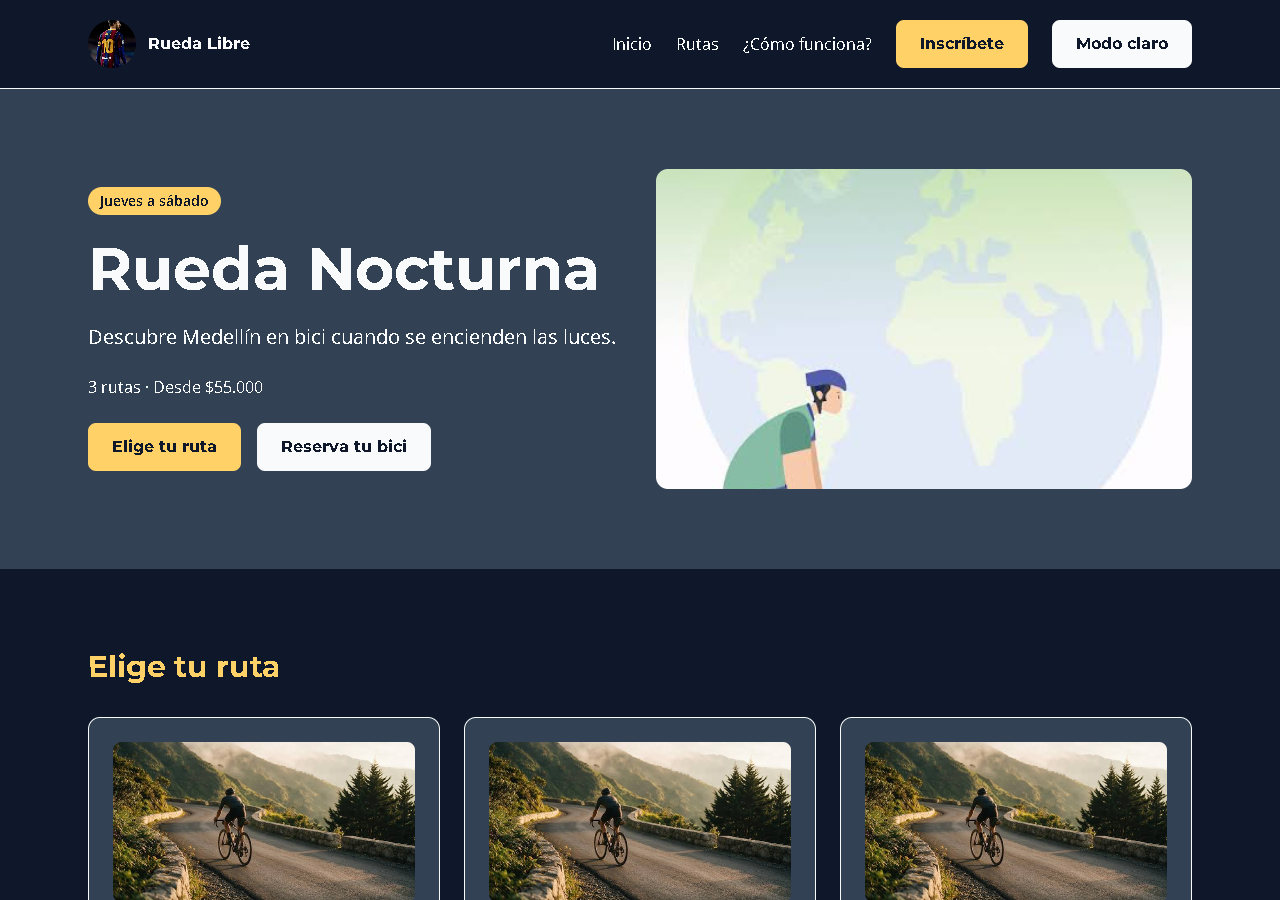
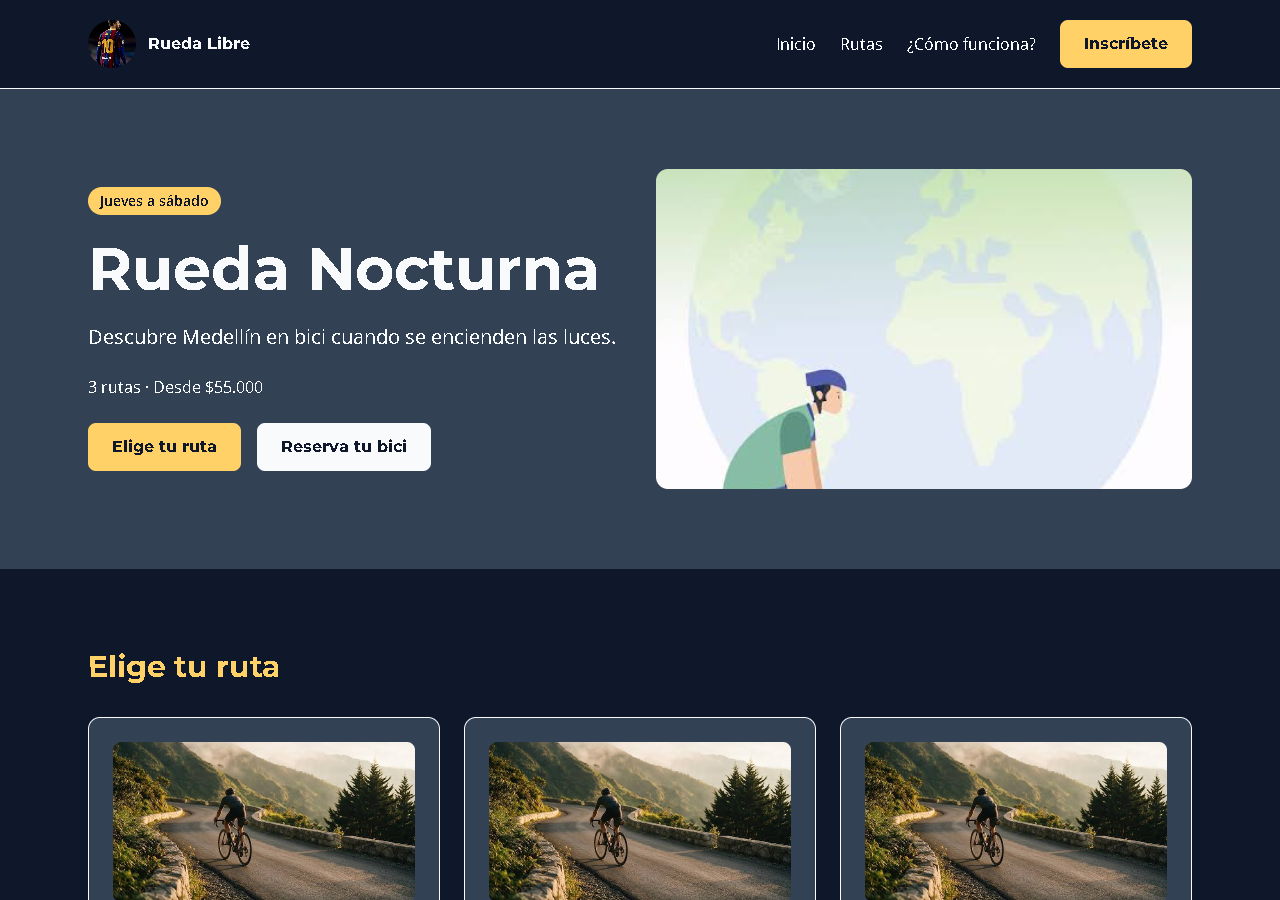
correccion de errores

Changed region(s): [[0.5938, 0.0, 0.9375, 0.0933], [0.5312, 0.0311, 0.5625, 0.0622]]

diff --git a/nocturna/src/output.css b/nocturna/src/output.css
@@ -1,2 +1,2 @@
 /*! tailwindcss v4.3.4 | MIT License | https://tailwindcss.com */
-@layer properties{@supports (((-webkit-hyphens:none)) and (not (margin-trim:block))) or ((-moz-orient:inline) and (not (color:rgb(from red r g b)))){*,:before,:after,::backdrop{--tw-space-y-reverse:0;--tw-border-style:solid;--tw-leading:initial;--tw-font-weight:initial;--tw-tracking:initial;--tw-outline-style:solid}}}@layer theme{:root,:host{--font-sans:-apple-system, BlinkMacSystemFont, "Segoe UI", Roboto, "Helvetica Neue", "Noto Sans", Arial, sans-serif, "Apple Color Emoji", "Segoe UI Emoji", "Segoe UI Symbol", "Noto Color Emoji";--font-mono:ui-monospace, SFMono-Regular, Menlo, Monaco, Consolas, "Liberation Mono", "Courier New", monospace;--color-amber-300:oklch(87.9% .169 91.605);--color-slate-300:oklch(86.9% .022 252.894);--color-slate-950:oklch(12.9% .042 264.695);--color-white:#fff;--spacing:.25rem;--container-xl:36rem;--container-3xl:48rem;--container-6xl:72rem;--text-sm:.875rem;--text-sm--line-height:calc(1.25 / .875);--text-base:1rem;--text-base--line-height:calc(1.5 / 1);--text-lg:1.125rem;--text-lg--line-height:calc(1.75 / 1.125);--text-xl:1.25rem;--text-xl--line-height:calc(1.75 / 1.25);--text-2xl:1.5rem;--text-2xl--line-height:calc(2 / 1.5);--text-3xl:1.875rem;--text-3xl--line-height:calc(2.25 / 1.875);--text-4xl:2.25rem;--text-4xl--line-height:calc(2.5 / 2.25);--text-5xl:3rem;--text-5xl--line-height:1;--text-6xl:3.75rem;--text-6xl--line-height:1;--font-weight-normal:400;--font-weight-semibold:600;--font-weight-bold:700;--tracking-wide:.025em;--leading-tight:1.25;--leading-relaxed:1.625;--radius-lg:.5rem;--radius-xl:.75rem;--default-font-family:var(--font-sans);--default-mono-font-family:var(--font-mono);--color-verde-ruta:#0284c7;--color-azul-noche:#0f172a;--color-gris-asfalto:#334155;--color-crema:#f8fafc;--color-amarillo-farol:#ffd166;--font-titulo:"Montserrat", sans-serif;--font-cuerpo:"Open Sans", sans-serif}}@layer base{*,:after,:before,::backdrop{box-sizing:border-box;border:0 solid;margin:0;padding:0}::file-selector-button{box-sizing:border-box;border:0 solid;margin:0;padding:0}html,:host{-webkit-text-size-adjust:100%;tab-size:4;line-height:1.5;font-family:var(--default-font-family,-apple-system, BlinkMacSystemFont, "Segoe UI", Roboto, "Helvetica Neue", "Noto Sans", Arial, sans-serif, "Apple Color Emoji", "Segoe UI Emoji", "Segoe UI Symbol", "Noto Color Emoji");font-feature-settings:var(--default-font-feature-settings,normal);font-variation-settings:var(--default-font-variation-settings,normal);-webkit-tap-highlight-color:transparent}hr{height:0;color:inherit;border-top-width:1px}abbr:where([title]){-webkit-text-decoration:underline dotted;text-decoration:underline dotted}h1,h2,h3,h4,h5,h6{font-size:inherit;font-weight:inherit}a{color:inherit;-webkit-text-decoration:inherit;-webkit-text-decoration:inherit;-webkit-text-decoration:inherit;text-decoration:inherit}b,strong{font-weight:bolder}code,kbd,samp,pre{font-family:var(--default-mono-font-family,ui-monospace, SFMono-Regular, Menlo, Monaco, Consolas, "Liberation Mono", "Courier New", monospace);font-feature-settings:var(--default-mono-font-feature-settings,normal);font-variation-settings:var(--default-mono-font-variation-settings,normal);font-size:1em}small{font-size:80%}sub,sup{vertical-align:baseline;font-size:75%;line-height:0;position:relative}sub{bottom:-.25em}sup{top:-.5em}table{text-indent:0;border-color:inherit;border-collapse:collapse}:-moz-focusring:where(:not(iframe)){outline:auto}progress{vertical-align:baseline}summary{display:list-item}ol,ul,menu{list-style:none}img,svg,video,canvas,audio,iframe,embed,object{vertical-align:middle;display:block}img,video{max-width:100%;height:auto}button,input,select,optgroup,textarea{font:inherit;font-feature-settings:inherit;font-variation-settings:inherit;letter-spacing:inherit;color:inherit;opacity:1;background-color:#0000;border-radius:0}::file-selector-button{font:inherit;font-feature-settings:inherit;font-variation-settings:inherit;letter-spacing:inherit;color:inherit;opacity:1;background-color:#0000;border-radius:0}:where(select:is([multiple],[size])) optgroup{font-weight:bolder}:where(select:is([multiple],[size])) optgroup option{padding-inline-start:20px}::file-selector-button{margin-inline-end:4px}::placeholder{opacity:1}@supports (not ((-webkit-appearance:-apple-pay-button))) or (contain-intrinsic-size:1px){::placeholder{color:currentColor}@supports (color:color-mix(in lab, red, red)){::placeholder{color:color-mix(in oklab, currentcolor 50%, transparent)}}}textarea{resize:vertical}::-webkit-search-decoration{-webkit-appearance:none}::-webkit-date-and-time-value{min-height:1lh;text-align:inherit}::-webkit-datetime-edit{display:inline-flex}::-webkit-datetime-edit-fields-wrapper{padding:0}::-webkit-datetime-edit{padding-block:0}::-webkit-datetime-edit-year-field{padding-block:0}::-webkit-datetime-edit-month-field{padding-block:0}::-webkit-datetime-edit-day-field{padding-block:0}::-webkit-datetime-edit-hour-field{padding-block:0}::-webkit-datetime-edit-minute-field{padding-block:0}::-webkit-datetime-edit-second-field{padding-block:0}::-webkit-datetime-edit-millisecond-field{padding-block:0}::-webkit-datetime-edit-meridiem-field{padding-block:0}::-webkit-calendar-picker-indicator{line-height:1}:-moz-ui-invalid{box-shadow:none}button,input:where([type=button],[type=reset],[type=submit]){appearance:button}::file-selector-button{appearance:button}::-webkit-inner-spin-button{height:auto}::-webkit-outer-spin-button{height:auto}[hidden]:where(:not([hidden=until-found])){display:none!important}:root{color-scheme:light}:root.dark{color-scheme:dark}}@layer components{.btn-principal{border-radius:var(--radius-lg);background-color:var(--color-amarillo-farol);padding-inline:calc(var(--spacing) * 6);padding-block:calc(var(--spacing) * 3);font-family:var(--font-titulo);--tw-font-weight:var(--font-weight-bold);font-weight:var(--font-weight-bold);color:var(--color-azul-noche);justify-content:center;align-items:center;display:inline-flex}@media (hover:hover){.btn-principal:hover{background-color:var(--color-white)}}.btn-principal:focus-visible{outline-style:var(--tw-outline-style);outline-offset:4px;outline-width:2px;outline-color:var(--color-verde-ruta)}.btn-principal:where(.dark,.dark *):focus-visible{outline-color:var(--color-amarillo-farol)}.btn-secundario{border-radius:var(--radius-lg);background-color:var(--color-azul-noche);padding-inline:calc(var(--spacing) * 6);padding-block:calc(var(--spacing) * 3);font-family:var(--font-titulo);--tw-font-weight:var(--font-weight-bold);font-weight:var(--font-weight-bold);color:var(--color-white);justify-content:center;align-items:center;display:inline-flex}@media (hover:hover){.btn-secundario:hover{background-color:var(--color-gris-asfalto)}}.btn-secundario:focus-visible{outline-style:var(--tw-outline-style);outline-offset:4px;outline-width:2px;outline-color:var(--color-verde-ruta)}.btn-secundario:where(.dark,.dark *){background-color:var(--color-crema);color:var(--color-azul-noche)}@media (hover:hover){.btn-secundario:where(.dark,.dark *):hover{background-color:var(--color-amarillo-farol)}}.btn-secundario:where(.dark,.dark *):focus-visible{outline-color:var(--color-amarillo-farol)}}@layer utilities{.absolute{position:absolute}.relative{position:relative}.-top-4{top:calc(var(--spacing) * -4)}.left-6{left:calc(var(--spacing) * 6)}.mx-auto{margin-inline:auto}.block{display:block}.flex{display:flex}.grid{display:grid}.hidden{display:none}.inline-block{display:inline-block}.inline-flex{display:inline-flex}.h-5{height:calc(var(--spacing) * 5)}.h-10{height:calc(var(--spacing) * 10)}.h-12{height:calc(var(--spacing) * 12)}.h-40{height:calc(var(--spacing) * 40)}.h-64{height:calc(var(--spacing) * 64)}.h-full{height:100%}.w-5{width:calc(var(--spacing) * 5)}.w-10{width:calc(var(--spacing) * 10)}.w-12{width:calc(var(--spacing) * 12)}.w-full{width:100%}.max-w-3xl{max-width:var(--container-3xl)}.max-w-6xl{max-width:var(--container-6xl)}.max-w-xl{max-width:var(--container-xl)}.shrink-0{flex-shrink:0}.grow{flex-grow:1}.grid-cols-1{grid-template-columns:repeat(1,minmax(0,1fr))}.flex-col{flex-direction:column}.flex-wrap{flex-wrap:wrap}.items-center{align-items:center}.justify-between{justify-content:space-between}.justify-center{justify-content:center}.gap-2{gap:calc(var(--spacing) * 2)}.gap-3{gap:calc(var(--spacing) * 3)}.gap-4{gap:calc(var(--spacing) * 4)}.gap-6{gap:calc(var(--spacing) * 6)}.gap-8{gap:calc(var(--spacing) * 8)}:where(.space-y-2>:not(:last-child)){--tw-space-y-reverse:0;margin-block-start:calc(calc(var(--spacing) * 2) * var(--tw-space-y-reverse));margin-block-end:calc(calc(var(--spacing) * 2) * calc(1 - var(--tw-space-y-reverse)))}:where(.space-y-3>:not(:last-child)){--tw-space-y-reverse:0;margin-block-start:calc(calc(var(--spacing) * 3) * var(--tw-space-y-reverse));margin-block-end:calc(calc(var(--spacing) * 3) * calc(1 - var(--tw-space-y-reverse)))}:where(.space-y-4>:not(:last-child)){--tw-space-y-reverse:0;margin-block-start:calc(calc(var(--spacing) * 4) * var(--tw-space-y-reverse));margin-block-end:calc(calc(var(--spacing) * 4) * calc(1 - var(--tw-space-y-reverse)))}:where(.space-y-6>:not(:last-child)){--tw-space-y-reverse:0;margin-block-start:calc(calc(var(--spacing) * 6) * var(--tw-space-y-reverse));margin-block-end:calc(calc(var(--spacing) * 6) * calc(1 - var(--tw-space-y-reverse)))}:where(.space-y-8>:not(:last-child)){--tw-space-y-reverse:0;margin-block-start:calc(calc(var(--spacing) * 8) * var(--tw-space-y-reverse));margin-block-end:calc(calc(var(--spacing) * 8) * calc(1 - var(--tw-space-y-reverse)))}.self-start{align-self:flex-start}.rounded-full{border-radius:2147483647px}.rounded-lg{border-radius:var(--radius-lg)}.rounded-xl{border-radius:var(--radius-xl)}.border{border-style:var(--tw-border-style);border-width:1px}.border-t{border-top-style:var(--tw-border-style);border-top-width:1px}.border-t-4{border-top-style:var(--tw-border-style);border-top-width:4px}.border-b{border-bottom-style:var(--tw-border-style);border-bottom-width:1px}.border-azul-noche{border-color:var(--color-azul-noche)}.border-gris-asfalto{border-color:var(--color-gris-asfalto)}.bg-amarillo-farol{background-color:var(--color-amarillo-farol)}.bg-amber-300{background-color:var(--color-amber-300)}.bg-azul-noche{background-color:var(--color-azul-noche)}.bg-crema{background-color:var(--color-crema)}.bg-slate-950{background-color:var(--color-slate-950)}.bg-white{background-color:var(--color-white)}.object-cover{object-fit:cover}.p-6{padding:calc(var(--spacing) * 6)}.px-2{padding-inline:calc(var(--spacing) * 2)}.px-3{padding-inline:calc(var(--spacing) * 3)}.px-4{padding-inline:calc(var(--spacing) * 4)}.px-6{padding-inline:calc(var(--spacing) * 6)}.py-1{padding-block:var(--spacing)}.py-3{padding-block:calc(var(--spacing) * 3)}.py-5{padding-block:calc(var(--spacing) * 5)}.py-8{padding-block:calc(var(--spacing) * 8)}.py-12{padding-block:calc(var(--spacing) * 12)}.font-cuerpo{font-family:var(--font-cuerpo)}.font-sans{font-family:var(--font-sans)}.font-titulo{font-family:var(--font-titulo)}.text-2xl{font-size:var(--text-2xl);line-height:var(--tw-leading,var(--text-2xl--line-height))}.text-3xl{font-size:var(--text-3xl);line-height:var(--tw-leading,var(--text-3xl--line-height))}.text-4xl{font-size:var(--text-4xl);line-height:var(--tw-leading,var(--text-4xl--line-height))}.text-5xl{font-size:var(--text-5xl);line-height:var(--tw-leading,var(--text-5xl--line-height))}.text-base{font-size:var(--text-base);line-height:var(--tw-leading,var(--text-base--line-height))}.text-lg{font-size:var(--text-lg);line-height:var(--tw-leading,var(--text-lg--line-height))}.text-sm{font-size:var(--text-sm);line-height:var(--tw-leading,var(--text-sm--line-height))}.text-xl{font-size:var(--text-xl);line-height:var(--tw-leading,var(--text-xl--line-height))}.leading-relaxed{--tw-leading:var(--leading-relaxed);line-height:var(--leading-relaxed)}.leading-tight{--tw-leading:var(--leading-tight);line-height:var(--leading-tight)}.font-bold{--tw-font-weight:var(--font-weight-bold);font-weight:var(--font-weight-bold)}.font-normal{--tw-font-weight:var(--font-weight-normal);font-weight:var(--font-weight-normal)}.font-semibold{--tw-font-weight:var(--font-weight-semibold);font-weight:var(--font-weight-semibold)}.tracking-wide{--tw-tracking:var(--tracking-wide);letter-spacing:var(--tracking-wide)}.break-all{word-break:break-all}.text-amber-300{color:var(--color-amber-300)}.text-azul-noche{color:var(--color-azul-noche)}.text-crema{color:var(--color-crema)}.text-gris-asfalto{color:var(--color-gris-asfalto)}.text-slate-300{color:var(--color-slate-300)}.text-slate-950{color:var(--color-slate-950)}.text-white{color:var(--color-white)}.uppercase{text-transform:uppercase}.underline{text-decoration-line:underline}.accent-azul-noche{accent-color:var(--color-azul-noche)}@media (hover:hover){.hover\:underline:hover{text-decoration-line:underline}}.focus\:outline-2:focus{outline-style:var(--tw-outline-style);outline-width:2px}.focus\:outline-offset-2:focus{outline-offset:2px}.focus\:outline-verde-ruta:focus{outline-color:var(--color-verde-ruta)}@media (min-width:40rem){.sm\:grid-cols-2{grid-template-columns:repeat(2,minmax(0,1fr))}}@media (min-width:48rem){.md\:flex{display:flex}.md\:grid-cols-2{grid-template-columns:repeat(2,minmax(0,1fr))}.md\:flex-row{flex-direction:row}}@media (min-width:64rem){.lg\:h-80{height:calc(var(--spacing) * 80)}.lg\:grid-cols-3{grid-template-columns:repeat(3,minmax(0,1fr))}.lg\:grid-cols-4{grid-template-columns:repeat(4,minmax(0,1fr))}.lg\:gap-6{gap:calc(var(--spacing) * 6)}.lg\:py-20{padding-block:calc(var(--spacing) * 20)}.lg\:text-3xl{font-size:var(--text-3xl);line-height:var(--tw-leading,var(--text-3xl--line-height))}.lg\:text-6xl{font-size:var(--text-6xl);line-height:var(--tw-leading,var(--text-6xl--line-height))}.lg\:text-xl{font-size:var(--text-xl);line-height:var(--tw-leading,var(--text-xl--line-height))}}.dark\:border-amarillo-farol:where(.dark,.dark *){border-color:var(--color-amarillo-farol)}.dark\:border-crema:where(.dark,.dark *){border-color:var(--color-crema)}.dark\:bg-amarillo-farol:where(.dark,.dark *){background-color:var(--color-amarillo-farol)}.dark\:bg-azul-noche:where(.dark,.dark *){background-color:var(--color-azul-noche)}.dark\:bg-gris-asfalto:where(.dark,.dark *){background-color:var(--color-gris-asfalto)}.dark\:text-amarillo-farol:where(.dark,.dark *){color:var(--color-amarillo-farol)}.dark\:text-azul-noche:where(.dark,.dark *){color:var(--color-azul-noche)}.dark\:text-crema:where(.dark,.dark *){color:var(--color-crema)}.dark\:accent-amarillo-farol:where(.dark,.dark *){accent-color:var(--color-amarillo-farol)}.dark\:focus\:outline-amarillo-farol:where(.dark,.dark *):focus{outline-color:var(--color-amarillo-farol)}}@property --tw-space-y-reverse{syntax:"*";inherits:false;initial-value:0}@property --tw-border-style{syntax:"*";inherits:false;initial-value:solid}@property --tw-leading{syntax:"*";inherits:false}@property --tw-font-weight{syntax:"*";inherits:false}@property --tw-tracking{syntax:"*";inherits:false}@property --tw-outline-style{syntax:"*";inherits:false;initial-value:solid}
+@layer properties{@supports (((-webkit-hyphens:none)) and (not (margin-trim:block))) or ((-moz-orient:inline) and (not (color:rgb(from red r g b)))){*,:before,:after,::backdrop{--tw-space-y-reverse:0;--tw-border-style:solid;--tw-leading:initial;--tw-font-weight:initial;--tw-tracking:initial;--tw-outline-style:solid}}}@layer theme{:root,:host{--font-sans:-apple-system, BlinkMacSystemFont, "Segoe UI", Roboto, "Helvetica Neue", "Noto Sans", Arial, sans-serif, "Apple Color Emoji", "Segoe UI Emoji", "Segoe UI Symbol", "Noto Color Emoji";--font-mono:ui-monospace, SFMono-Regular, Menlo, Monaco, Consolas, "Liberation Mono", "Courier New", monospace;--color-amber-300:oklch(87.9% .169 91.605);--color-slate-300:oklch(86.9% .022 252.894);--color-slate-950:oklch(12.9% .042 264.695);--color-white:#fff;--spacing:.25rem;--container-xl:36rem;--container-3xl:48rem;--container-6xl:72rem;--text-sm:.875rem;--text-sm--line-height:calc(1.25 / .875);--text-base:1rem;--text-base--line-height:calc(1.5 / 1);--text-lg:1.125rem;--text-lg--line-height:calc(1.75 / 1.125);--text-xl:1.25rem;--text-xl--line-height:calc(1.75 / 1.25);--text-2xl:1.5rem;--text-2xl--line-height:calc(2 / 1.5);--text-3xl:1.875rem;--text-3xl--line-height:calc(2.25 / 1.875);--text-4xl:2.25rem;--text-4xl--line-height:calc(2.5 / 2.25);--text-5xl:3rem;--text-5xl--line-height:1;--text-6xl:3.75rem;--text-6xl--line-height:1;--font-weight-normal:400;--font-weight-semibold:600;--font-weight-bold:700;--tracking-wide:.025em;--leading-tight:1.25;--leading-relaxed:1.625;--radius-lg:.5rem;--radius-xl:.75rem;--default-font-family:var(--font-sans);--default-mono-font-family:var(--font-mono);--color-verde-ruta:#0284c7;--color-azul-noche:#0f172a;--color-gris-asfalto:#334155;--color-crema:#f8fafc;--color-amarillo-farol:#ffd166;--font-titulo:"Montserrat", sans-serif;--font-cuerpo:"Open Sans", sans-serif}}@layer base{*,:after,:before,::backdrop{box-sizing:border-box;border:0 solid;margin:0;padding:0}::file-selector-button{box-sizing:border-box;border:0 solid;margin:0;padding:0}html,:host{-webkit-text-size-adjust:100%;tab-size:4;line-height:1.5;font-family:var(--default-font-family,-apple-system, BlinkMacSystemFont, "Segoe UI", Roboto, "Helvetica Neue", "Noto Sans", Arial, sans-serif, "Apple Color Emoji", "Segoe UI Emoji", "Segoe UI Symbol", "Noto Color Emoji");font-feature-settings:var(--default-font-feature-settings,normal);font-variation-settings:var(--default-font-variation-settings,normal);-webkit-tap-highlight-color:transparent}hr{height:0;color:inherit;border-top-width:1px}abbr:where([title]){-webkit-text-decoration:underline dotted;text-decoration:underline dotted}h1,h2,h3,h4,h5,h6{font-size:inherit;font-weight:inherit}a{color:inherit;-webkit-text-decoration:inherit;-webkit-text-decoration:inherit;-webkit-text-decoration:inherit;text-decoration:inherit}b,strong{font-weight:bolder}code,kbd,samp,pre{font-family:var(--default-mono-font-family,ui-monospace, SFMono-Regular, Menlo, Monaco, Consolas, "Liberation Mono", "Courier New", monospace);font-feature-settings:var(--default-mono-font-feature-settings,normal);font-variation-settings:var(--default-mono-font-variation-settings,normal);font-size:1em}small{font-size:80%}sub,sup{vertical-align:baseline;font-size:75%;line-height:0;position:relative}sub{bottom:-.25em}sup{top:-.5em}table{text-indent:0;border-color:inherit;border-collapse:collapse}:-moz-focusring:where(:not(iframe)){outline:auto}progress{vertical-align:baseline}summary{display:list-item}ol,ul,menu{list-style:none}img,svg,video,canvas,audio,iframe,embed,object{vertical-align:middle;display:block}img,video{max-width:100%;height:auto}button,input,select,optgroup,textarea{font:inherit;font-feature-settings:inherit;font-variation-settings:inherit;letter-spacing:inherit;color:inherit;opacity:1;background-color:#0000;border-radius:0}::file-selector-button{font:inherit;font-feature-settings:inherit;font-variation-settings:inherit;letter-spacing:inherit;color:inherit;opacity:1;background-color:#0000;border-radius:0}:where(select:is([multiple],[size])) optgroup{font-weight:bolder}:where(select:is([multiple],[size])) optgroup option{padding-inline-start:20px}::file-selector-button{margin-inline-end:4px}::placeholder{opacity:1}@supports (not ((-webkit-appearance:-apple-pay-button))) or (contain-intrinsic-size:1px){::placeholder{color:currentColor}@supports (color:color-mix(in lab, red, red)){::placeholder{color:color-mix(in oklab, currentcolor 50%, transparent)}}}textarea{resize:vertical}::-webkit-search-decoration{-webkit-appearance:none}::-webkit-date-and-time-value{min-height:1lh;text-align:inherit}::-webkit-datetime-edit{display:inline-flex}::-webkit-datetime-edit-fields-wrapper{padding:0}::-webkit-datetime-edit{padding-block:0}::-webkit-datetime-edit-year-field{padding-block:0}::-webkit-datetime-edit-month-field{padding-block:0}::-webkit-datetime-edit-day-field{padding-block:0}::-webkit-datetime-edit-hour-field{padding-block:0}::-webkit-datetime-edit-minute-field{padding-block:0}::-webkit-datetime-edit-second-field{padding-block:0}::-webkit-datetime-edit-millisecond-field{padding-block:0}::-webkit-datetime-edit-meridiem-field{padding-block:0}::-webkit-calendar-picker-indicator{line-height:1}:-moz-ui-invalid{box-shadow:none}button,input:where([type=button],[type=reset],[type=submit]){appearance:button}::file-selector-button{appearance:button}::-webkit-inner-spin-button{height:auto}::-webkit-outer-spin-button{height:auto}[hidden]:where(:not([hidden=until-found])){display:none!important}:root{color-scheme:light dark}}@layer components{.btn-principal{border-radius:var(--radius-lg);background-color:var(--color-amarillo-farol);padding-inline:calc(var(--spacing) * 6);padding-block:calc(var(--spacing) * 3);font-family:var(--font-titulo);--tw-font-weight:var(--font-weight-bold);font-weight:var(--font-weight-bold);color:var(--color-azul-noche);justify-content:center;align-items:center;display:inline-flex}@media (hover:hover){.btn-principal:hover{background-color:var(--color-white)}}.btn-principal:focus-visible{outline-style:var(--tw-outline-style);outline-offset:4px;outline-width:2px;outline-color:var(--color-verde-ruta)}@media (prefers-color-scheme:dark){.btn-principal:focus-visible{outline-color:var(--color-amarillo-farol)}}.btn-secundario{border-radius:var(--radius-lg);background-color:var(--color-azul-noche);padding-inline:calc(var(--spacing) * 6);padding-block:calc(var(--spacing) * 3);font-family:var(--font-titulo);--tw-font-weight:var(--font-weight-bold);font-weight:var(--font-weight-bold);color:var(--color-white);justify-content:center;align-items:center;display:inline-flex}@media (hover:hover){.btn-secundario:hover{background-color:var(--color-gris-asfalto)}}.btn-secundario:focus-visible{outline-style:var(--tw-outline-style);outline-offset:4px;outline-width:2px;outline-color:var(--color-verde-ruta)}@media (prefers-color-scheme:dark){.btn-secundario{background-color:var(--color-crema);color:var(--color-azul-noche)}@media (hover:hover){.btn-secundario:hover{background-color:var(--color-amarillo-farol)}}.btn-secundario:focus-visible{outline-color:var(--color-amarillo-farol)}}}@layer utilities{.absolute{position:absolute}.relative{position:relative}.-top-4{top:calc(var(--spacing) * -4)}.left-6{left:calc(var(--spacing) * 6)}.mx-auto{margin-inline:auto}.block{display:block}.flex{display:flex}.grid{display:grid}.hidden{display:none}.inline-block{display:inline-block}.inline-flex{display:inline-flex}.h-5{height:calc(var(--spacing) * 5)}.h-10{height:calc(var(--spacing) * 10)}.h-12{height:calc(var(--spacing) * 12)}.h-40{height:calc(var(--spacing) * 40)}.h-64{height:calc(var(--spacing) * 64)}.h-full{height:100%}.w-5{width:calc(var(--spacing) * 5)}.w-10{width:calc(var(--spacing) * 10)}.w-12{width:calc(var(--spacing) * 12)}.w-full{width:100%}.max-w-3xl{max-width:var(--container-3xl)}.max-w-6xl{max-width:var(--container-6xl)}.max-w-xl{max-width:var(--container-xl)}.shrink-0{flex-shrink:0}.grow{flex-grow:1}.grid-cols-1{grid-template-columns:repeat(1,minmax(0,1fr))}.flex-col{flex-direction:column}.flex-wrap{flex-wrap:wrap}.items-center{align-items:center}.justify-between{justify-content:space-between}.justify-center{justify-content:center}.gap-2{gap:calc(var(--spacing) * 2)}.gap-3{gap:calc(var(--spacing) * 3)}.gap-4{gap:calc(var(--spacing) * 4)}.gap-6{gap:calc(var(--spacing) * 6)}.gap-8{gap:calc(var(--spacing) * 8)}:where(.space-y-2>:not(:last-child)){--tw-space-y-reverse:0;margin-block-start:calc(calc(var(--spacing) * 2) * var(--tw-space-y-reverse));margin-block-end:calc(calc(var(--spacing) * 2) * calc(1 - var(--tw-space-y-reverse)))}:where(.space-y-3>:not(:last-child)){--tw-space-y-reverse:0;margin-block-start:calc(calc(var(--spacing) * 3) * var(--tw-space-y-reverse));margin-block-end:calc(calc(var(--spacing) * 3) * calc(1 - var(--tw-space-y-reverse)))}:where(.space-y-4>:not(:last-child)){--tw-space-y-reverse:0;margin-block-start:calc(calc(var(--spacing) * 4) * var(--tw-space-y-reverse));margin-block-end:calc(calc(var(--spacing) * 4) * calc(1 - var(--tw-space-y-reverse)))}:where(.space-y-6>:not(:last-child)){--tw-space-y-reverse:0;margin-block-start:calc(calc(var(--spacing) * 6) * var(--tw-space-y-reverse));margin-block-end:calc(calc(var(--spacing) * 6) * calc(1 - var(--tw-space-y-reverse)))}:where(.space-y-8>:not(:last-child)){--tw-space-y-reverse:0;margin-block-start:calc(calc(var(--spacing) * 8) * var(--tw-space-y-reverse));margin-block-end:calc(calc(var(--spacing) * 8) * calc(1 - var(--tw-space-y-reverse)))}.self-start{align-self:flex-start}.rounded-full{border-radius:2147483647px}.rounded-lg{border-radius:var(--radius-lg)}.rounded-xl{border-radius:var(--radius-xl)}.border{border-style:var(--tw-border-style);border-width:1px}.border-t{border-top-style:var(--tw-border-style);border-top-width:1px}.border-t-4{border-top-style:var(--tw-border-style);border-top-width:4px}.border-b{border-bottom-style:var(--tw-border-style);border-bottom-width:1px}.border-azul-noche{border-color:var(--color-azul-noche)}.border-gris-asfalto{border-color:var(--color-gris-asfalto)}.bg-amarillo-farol{background-color:var(--color-amarillo-farol)}.bg-amber-300{background-color:var(--color-amber-300)}.bg-azul-noche{background-color:var(--color-azul-noche)}.bg-crema{background-color:var(--color-crema)}.bg-slate-950{background-color:var(--color-slate-950)}.bg-white{background-color:var(--color-white)}.object-cover{object-fit:cover}.p-6{padding:calc(var(--spacing) * 6)}.px-2{padding-inline:calc(var(--spacing) * 2)}.px-3{padding-inline:calc(var(--spacing) * 3)}.px-4{padding-inline:calc(var(--spacing) * 4)}.px-6{padding-inline:calc(var(--spacing) * 6)}.py-1{padding-block:var(--spacing)}.py-3{padding-block:calc(var(--spacing) * 3)}.py-5{padding-block:calc(var(--spacing) * 5)}.py-8{padding-block:calc(var(--spacing) * 8)}.py-12{padding-block:calc(var(--spacing) * 12)}.font-cuerpo{font-family:var(--font-cuerpo)}.font-sans{font-family:var(--font-sans)}.font-titulo{font-family:var(--font-titulo)}.text-2xl{font-size:var(--text-2xl);line-height:var(--tw-leading,var(--text-2xl--line-height))}.text-3xl{font-size:var(--text-3xl);line-height:var(--tw-leading,var(--text-3xl--line-height))}.text-4xl{font-size:var(--text-4xl);line-height:var(--tw-leading,var(--text-4xl--line-height))}.text-5xl{font-size:var(--text-5xl);line-height:var(--tw-leading,var(--text-5xl--line-height))}.text-base{font-size:var(--text-base);line-height:var(--tw-leading,var(--text-base--line-height))}.text-lg{font-size:var(--text-lg);line-height:var(--tw-leading,var(--text-lg--line-height))}.text-sm{font-size:var(--text-sm);line-height:var(--tw-leading,var(--text-sm--line-height))}.text-xl{font-size:var(--text-xl);line-height:var(--tw-leading,var(--text-xl--line-height))}.leading-relaxed{--tw-leading:var(--leading-relaxed);line-height:var(--leading-relaxed)}.leading-tight{--tw-leading:var(--leading-tight);line-height:var(--leading-tight)}.font-bold{--tw-font-weight:var(--font-weight-bold);font-weight:var(--font-weight-bold)}.font-normal{--tw-font-weight:var(--font-weight-normal);font-weight:var(--font-weight-normal)}.font-semibold{--tw-font-weight:var(--font-weight-semibold);font-weight:var(--font-weight-semibold)}.tracking-wide{--tw-tracking:var(--tracking-wide);letter-spacing:var(--tracking-wide)}.break-all{word-break:break-all}.text-amber-300{color:var(--color-amber-300)}.text-azul-noche{color:var(--color-azul-noche)}.text-crema{color:var(--color-crema)}.text-gris-asfalto{color:var(--color-gris-asfalto)}.text-slate-300{color:var(--color-slate-300)}.text-slate-950{color:var(--color-slate-950)}.text-white{color:var(--color-white)}.uppercase{text-transform:uppercase}.underline{text-decoration-line:underline}.accent-azul-noche{accent-color:var(--color-azul-noche)}@media (hover:hover){.hover\:underline:hover{text-decoration-line:underline}}.focus\:outline-2:focus{outline-style:var(--tw-outline-style);outline-width:2px}.focus\:outline-offset-2:focus{outline-offset:2px}.focus\:outline-verde-ruta:focus{outline-color:var(--color-verde-ruta)}.disabled\:cursor-not-allowed:disabled{cursor:not-allowed}.disabled\:opacity-70:disabled{opacity:.7}@media (min-width:40rem){.sm\:grid-cols-2{grid-template-columns:repeat(2,minmax(0,1fr))}}@media (min-width:48rem){.md\:flex{display:flex}.md\:grid-cols-2{grid-template-columns:repeat(2,minmax(0,1fr))}.md\:flex-row{flex-direction:row}}@media (min-width:64rem){.lg\:h-80{height:calc(var(--spacing) * 80)}.lg\:grid-cols-3{grid-template-columns:repeat(3,minmax(0,1fr))}.lg\:grid-cols-4{grid-template-columns:repeat(4,minmax(0,1fr))}.lg\:gap-6{gap:calc(var(--spacing) * 6)}.lg\:py-20{padding-block:calc(var(--spacing) * 20)}.lg\:text-3xl{font-size:var(--text-3xl);line-height:var(--tw-leading,var(--text-3xl--line-height))}.lg\:text-6xl{font-size:var(--text-6xl);line-height:var(--tw-leading,var(--text-6xl--line-height))}.lg\:text-xl{font-size:var(--text-xl);line-height:var(--tw-leading,var(--text-xl--line-height))}}@media (prefers-color-scheme:dark){.dark\:border-amarillo-farol{border-color:var(--color-amarillo-farol)}.dark\:border-crema{border-color:var(--color-crema)}.dark\:bg-amarillo-farol{background-color:var(--color-amarillo-farol)}.dark\:bg-azul-noche{background-color:var(--color-azul-noche)}.dark\:bg-gris-asfalto{background-color:var(--color-gris-asfalto)}.dark\:text-amarillo-farol{color:var(--color-amarillo-farol)}.dark\:text-azul-noche{color:var(--color-azul-noche)}.dark\:text-crema{color:var(--color-crema)}.dark\:accent-amarillo-farol{accent-color:var(--color-amarillo-farol)}.dark\:focus\:outline-amarillo-farol:focus{outline-color:var(--color-amarillo-farol)}}}@property --tw-space-y-reverse{syntax:"*";inherits:false;initial-value:0}@property --tw-border-style{syntax:"*";inherits:false;initial-value:solid}@property --tw-leading{syntax:"*";inherits:false}@property --tw-font-weight{syntax:"*";inherits:false}@property --tw-tracking{syntax:"*";inherits:false}@property --tw-outline-style{syntax:"*";inherits:false;initial-value:solid}

diff --git a/nocturna/index.html b/nocturna/index.html
@@ -10,7 +10,6 @@
     <link rel="preconnect" href="https://fonts.gstatic.com" crossorigin>
     <link href="https://fonts.googleapis.com/css2?family=Montserrat:wght@600;700&family=Open+Sans:wght@400;600&display=swap" rel="stylesheet">
     <link rel="stylesheet" href="src/output.css">
-    <script src="tema.js"></script>
 </head>
 <body class="bg-crema font-cuerpo text-gris-asfalto dark:bg-azul-noche dark:text-crema">
     <header class="border-b border-gris-asfalto dark:border-crema">
@@ -26,7 +25,6 @@
                     <a href="#como-funciona" class="hover:underline">¿Cómo funciona?</a>
                 </div>
                 <a href="#inscripcion" class="btn-principal">Inscríbete</a>
-                <button id="cambiar-tema" type="button" class="btn-secundario">Modo oscuro</button>
             </nav>
         </div>
     </header>
@@ -199,10 +197,9 @@
                     </fieldset>
                     <p id="condiciones-texto">Condiciones: lleva tu documento de identidad, usa casco y sigue las indicaciones del guía durante el recorrido.</p>
                     <label for="condiciones" class="flex items-center gap-3"><input id="condiciones" name="condiciones" type="checkbox" value="aceptadas" aria-describedby="condiciones-texto" required class="h-5 w-5 shrink-0 accent-azul-noche focus:outline-2 focus:outline-offset-2 dark:accent-amarillo-farol"> Acepto las condiciones del recorrido</label>
-                    <button type="submit" class="btn-secundario">Enviar inscripción</button>
+                    <button type="submit" disabled aria-describedby="estado-inscripcion" class="btn-secundario disabled:cursor-not-allowed disabled:opacity-70">Enviar inscripción</button>
                     <p id="estado-inscripcion" role="status" class="font-semibold">El envío de inscripciones todavía no está habilitado.</p>
                 </form>
-                <noscript>Activa JavaScript para comprobar la disponibilidad del envío.</noscript>
             </div>
         </section>
     </main>
@@ -213,6 +210,5 @@
             <div class="space-y-2"><p class="font-titulo font-bold">Rueda Nocturna</p><p>Jueves a sábado</p><a href="componentes.html" class="underline">Kit de componentes</a></div>
         </div>
     </footer>
-    <script src="inscripcion.js" defer></script>
 </body>
 </html>

diff --git a/nocturna/componentes.html b/nocturna/componentes.html
@@ -10,15 +10,11 @@
     <link rel="preconnect" href="https://fonts.gstatic.com" crossorigin>
     <link href="https://fonts.googleapis.com/css2?family=Montserrat:wght@600;700&family=Open+Sans:wght@400;600&display=swap" rel="stylesheet">
     <link rel="stylesheet" href="src/output.css">
-    <script src="tema.js"></script>
 </head>
 <body class="bg-crema font-cuerpo text-gris-asfalto dark:bg-azul-noche dark:text-crema">
     <main class="mx-auto max-w-6xl space-y-8 px-6 py-12 lg:py-20">
         <h1 class="font-titulo text-3xl font-bold">Kit de Rueda Nocturna</h1>
-        <div class="flex flex-wrap items-center justify-between gap-4">
-            <a href="index.html" class="underline">Volver a la landing</a>
-            <button id="cambiar-tema" type="button" class="btn-secundario">Modo oscuro</button>
-        </div>
+        <a href="index.html" class="underline">Volver a la landing</a>
         <section id="botones" class="space-y-4">
             <h2 class="font-titulo text-2xl font-bold">Botones</h2>
             <div class="flex flex-wrap gap-4">

diff --git a/paginas/reservas.html b/paginas/reservas.html
@@ -127,7 +127,7 @@
                             </fieldset>
 
                             <br>
-                            <button type="submit">Reservar</button>
+                            <button type="submit" disabled aria-describedby="estado-inscripcion">Reservar</button>
                             <p id="estado-inscripcion" role="status">El envío de reservas todavía no está habilitado.</p>
                         </form>
                     </section>
@@ -178,7 +178,6 @@
 
         <a href="https://wa.me/573000000000" target="_blank" rel="noopener noreferrer" class="btn-whatsapp">WhatsApp</a>
 
-        <script src="../nocturna/inscripcion.js" defer></script>
         <script src="https://cdn.jsdelivr.net/npm/bootstrap@5.3.3/dist/js/bootstrap.bundle.min.js"
         integrity="sha384-YvpcrYf0tY3lHB60NNkmXc5s9fDVZLESaAA55NDzOxhy9GkcIdslK1eN7N6jIeHz"
         crossorigin="anonymous"></script>

diff --git a/nocturna/src/input.css b/nocturna/src/input.css
@@ -1,10 +1,8 @@
 @import "tailwindcss";
 @source "../*.html";
-@custom-variant dark (&:where(.dark, .dark *));
 
 @layer base {
-  :root { color-scheme: light; }
-  :root.dark { color-scheme: dark; }
+  :root { color-scheme: light dark; }
 }
 
 @theme {

diff --git a/README.md b/README.md
@@ -42,13 +42,14 @@ npm run build
 
 Se revisaron las paginas a 360, 768 y 1280 px, y la landing tambien a 1024 px. El formulario bloquea datos vacios o invalidos y se puede completar con teclado.
 La landing y reservas quedaron sin errores en el W3C. Tambien se revisaron el contraste, el modo oscuro y los enlaces publicados.
-El boton Modo oscuro permite cambiar el tema en la landing y el kit. Guarda la elección al recargar, si no hay una elección usa el tema del sistema.
+El modo oscuro de la landing y el kit sigue el tema del sistema con dark: de Tailwind, sin JavaScript propio.
+Los campos se validan con HTML. El envio esta deshabilitado hasta tener un servicio que reciba los datos.
 
 ## Bootstrap o Tailwind
 
 Bootstrap me ayudo a empezar con las columnas y el carrusel. Con Tailwind tuve que aprender mas clases, pero fue mas facil organizar la landing y personalizarla.
 
-Bootstrap carga 232.803 bytes de CSS y 80.721 de JavaScript. La landing tiene 15.158 bytes de CSS y 2.410 de JavaScript propio, sin contar imagenes ni fuentes. Bootstrap tambien usa mis hojas de CSS.
+Bootstrap carga 232.803 bytes de CSS y 80.721 de JavaScript del framework para el carrusel. La landing tiene 15.048 bytes de CSS compilado de Tailwind y no usa archivos JavaScript propios, imagenes y fuentes aparte. Bootstrap tambien usa mis hojas de CSS.
 Para la siguiente version recomiendo Tailwind por el tamaño y la personalización, dejaria Bootstrap en las paginas que ya funcionan.
 
 ## Capturas
